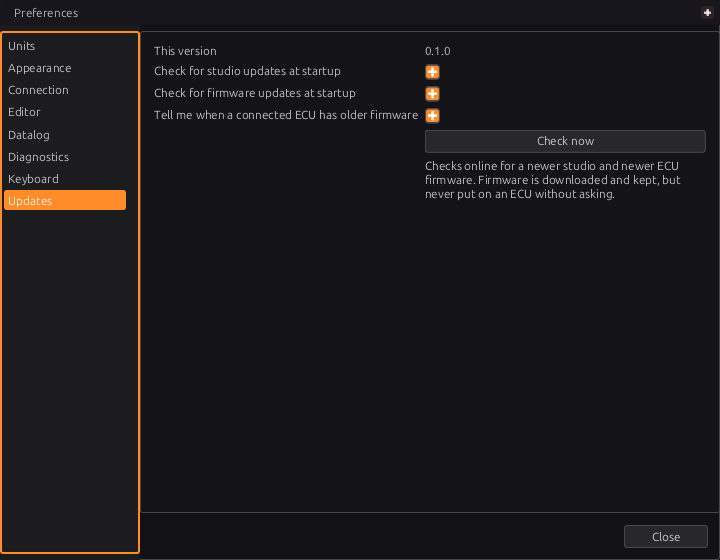
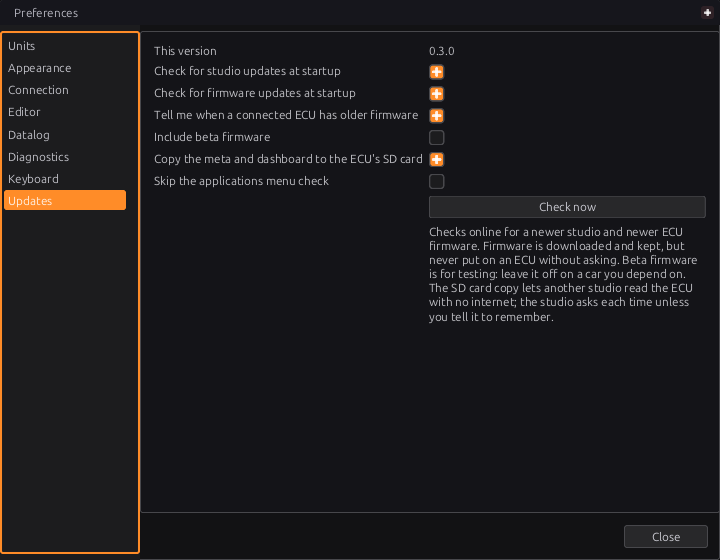
manual: today's studio changes; "descriptor" is the meta; a studio label that clipped
Chapter 3: the update offer is Update / Not now with "Don't ask about X again"; firmware comes in
the same releases as the studio and is checked for every board the studio has firmware for;
Preferences > Updates lists the SD card copy. Figure 3.5 re-shot (it showed 0.1.0 and three boxes).

Chapter 46: the SD card step asks, with Remember my choice and the preference; kits ship for every
board. Chapter 47: the recovery steps match the studio (the SD question; skip to step 3, not 5).
Chapter 48 and the glossary: the file the studio reads a firmware from is the meta.

The re-shoot showed "Copy the meta and dashboard to the ECU's SD card after installing firmware"
clipped in Preferences > Updates, so the label is now "Copy the meta and dashboard to the ECU's SD
card"; the note under it says when.

Changed region(s): [[0.2139, 0.0911, 1.0, 0.5768]]

diff --git a/apps/studio-jf/src/ui/PreferencesDialog.h b/apps/studio-jf/src/ui/PreferencesDialog.h
@@ -779,7 +779,7 @@ private:
         // THE SD COPY after installing firmware (FirmwareUpgrade::copyToSd). Asked each time unless the
         // answer was remembered; this is that answer. Unset, the box shows the likely one, and changing it
         // counts as remembering.
-        f->add(std::make_unique<JLabel>(m_graph, "Copy the meta and dashboard to the ECU's SD card after installing firmware", 240.f));
+        f->add(std::make_unique<JLabel>(m_graph, "Copy the meta and dashboard to the ECU's SD card", 240.f));
         JCheckBox* fwSd = f->add(std::make_unique<JCheckBox>(m_graph, "", 30.f));
         fwSd->setChecked(JSettings::instance().get<bool>("updates.firmwareCopyToSd", true));
         fwSd->onStateChanged.connect([](bool on) { JSettings::instance().set("updates.firmwareCopyToSd", on); });

diff --git a/manual/docs/part1/03-installing-studio.md b/manual/docs/part1/03-installing-studio.md
@@ -66,7 +66,7 @@ Inside the data folder:
 | Folder or file | What it holds |
 |---|---|
 | `ecus/` | One folder for each ECU the studio has met, named by the ECU's unique ID. It holds that ECU's saved tunes (`tunes/`), restore points (`restore/`), its page layout (`dashboard.gui`) and the tune backups made before a firmware update (`backups/`). |
-| `meta/` | ECU descriptors: the files that tell the studio what settings and channels a given firmware has. |
+| `meta/` | ECU metas: the files that tell the studio what settings and channels a given firmware has. |
 | `dashboards/` | Page layouts, one for each firmware layout (`<board> <layout hash>.gui`), from the shipped kit, an ECU's SD card or a firmware release. |
 | `firmware/` | ECU firmware kits the studio has downloaded. |
 | `datalogs/` | Logs you record in the studio, unless you choose another folder in **Edit ▸ Preferences ▸ Datalog**. |
@@ -91,7 +91,9 @@ looks at full releases. Drafts and pre-releases are never offered.
 <!-- src: apps/studio-jf/main.cpp (releases/latest of jaytektas/jayecu) (startup check) (Check now); JFramework include/j/update/JRelease.h -->
 
 When a newer version exists, the studio asks you first: *"jayecu Studio X is available. You have Y.
-Download and install it now (N MB)?"* If you answer **Yes**, it:
+Download and install it now (N MB)?"*, with **Update** and **Not now**. Tick **Don't ask about X
+again** before **Not now** and that version is not offered at startup again; the next version is, and
+**Check now** still finds it, because then you asked. If you answer **Update**, it:
 
 1. downloads the release's checksum file (`SHA256SUMS`), then the file for your system;
 2. checks that the file's SHA-256 checksum matches the published one. If it does not match, nothing
@@ -99,7 +101,7 @@ Download and install it now (N MB)?"* If you answer **Yes**, it:
 3. puts the new version ready to install (it **stages** it) and closes the studio in the usual way.
    If you have unsaved work, you are asked about it as you would be at any close;
 4. installs the new version once the studio has closed, and starts it.
-<!-- src: JFramework include/j/app/JAppUpdater.h (offer) (download sums, then asset, verify, stage, requestClose); apps/studio-jf/main.cpp (installStaged after the main loop) -->
+<!-- src: JFramework include/j/app/JAppUpdater.h (offer: Update / Not now, updates.skipVersion) (download sums, then asset, verify, stage, requestClose); apps/studio-jf/main.cpp (installStaged after the main loop) -->
 
 <figure markdown>
   ![Diagram of the update sequence: check, compare with the newest release, ask, download the checksums and the file, verify, stage, close, install, start the new version; and the three ways it stops or waits](../img/diagrams/installing-studio-update.svg)
@@ -130,9 +132,9 @@ installed the next time you close the studio.
     checksums, so it cannot be installed safely"). Neither is downloaded.
     <!-- src: JFramework include/j/update/JRelease.h; JFramework include/j/app/JAppUpdater.h -->
 
-**ECU firmware** is checked in the same place but released on its own. When the studio checks at
+**ECU firmware** comes in the same releases, with its own version number. When the studio checks at
 startup (or you press **Check now**), it also looks for newer firmware for every board it has
-connected to before, and downloads any it finds into the data folder's `firmware/` folder. Each file
+connected to before or has firmware for, and downloads any it finds into the data folder's `firmware/` folder. Each file
 is checked against the release's checksums first. Downloaded firmware is **kept, never flashed**: the
 studio only offers it when you connect to an ECU that runs older firmware, and asks before it changes
 anything (chapter 46).
@@ -328,22 +330,27 @@ or refused). Nothing was changed."
       starts. It only speaks up if there is one, so a laptop with no network is not told so every
       time.
     - **Check for firmware updates at startup** (on by default): look for newer ECU firmware for
-      the boards you have used, and download it. It is never put on an ECU from here.
+      the boards you have used and the boards the studio has firmware for, and download it. It is
+      never put on an ECU from here.
     - **Tell me when a connected ECU has older firmware** (on by default): when you connect, offer
       the newer firmware the studio already has. This needs no network, so it still works when the
       two checks above are off.
     - **Include beta firmware** (off by default): the firmware check also looks at beta releases, and
       the newest firmware wins, beta or not. Betas are published between releases for testing; leave
       this off on a car you depend on.
-    <!-- src: apps/studio-jf/src/ui/PreferencesDialog.h; main.cpp; JFramework include/j/app/JAppUpdater.h -->
+    - **Copy the meta and dashboard to the ECU's SD card**: after a
+      firmware update or recovery, put the ECU's meta and pages on its SD card, so another
+      studio can read the ECU with no internet. It takes about a minute. The studio asks each time
+      until you tick **Remember my choice**; this box shows the answer it remembered, and changes it.
+    <!-- src: apps/studio-jf/src/ui/PreferencesDialog.h; main.cpp; JFramework include/j/app/JAppUpdater.h; apps/studio-jf/src/app/FirmwareUpgrade.cpp (copyToSd, updates.firmwareCopyToSd) -->
 4. Press **Check now** to check both the studio and the firmware immediately. The answer appears in
    the status bar at the bottom of the main window. It might say "jayecu Studio is up to date
    (0.1.0)", "ECU firmware is up to date", or an offer to download.
    <!-- src: apps/studio-jf/main.cpp; JFramework include/j/app/JAppUpdater.h; main.cpp -->
 
 <figure markdown>
-  ![Edit, Preferences, Updates: This version 0.1.0, three ticked boxes for startup and connect checks, and the Check now button](../img/studio/installing-studio-updates.png)
-  <figcaption>Figure 3.5 — Edit ▸ Preferences ▸ Updates, as shipped: all three checks on. The
+  ![Edit, Preferences, Updates: This version 0.3.0; ticked boxes for the startup and connect checks, beta firmware off, the SD card copy of the meta and dashboard, and the Check now button](../img/studio/installing-studio-updates.png)
+  <figcaption>Figure 3.5 — Edit ▸ Preferences ▸ Updates, as shipped: the three checks on, beta firmware off. The
   text under Check now is the promise that firmware is never flashed without asking.</figcaption>
 </figure>
 

diff --git a/manual/docs/part6/46-updating-firmware.md b/manual/docs/part6/46-updating-firmware.md
@@ -11,7 +11,7 @@
 :material-circle:{ .level-basic } Basic
 
 - The studio and the ECU firmware are updated **separately** (chapter 3 covers the studio).
-- Firmware comes as a **kit** for one board: the firmware image, its descriptor and its pages. Kits
+- Firmware comes as a **kit** for one board: the firmware image, its meta and its pages. Kits
   ship with the studio, and the studio can download newer ones.
 - The update runs over the ordinary **USB cable**. No programmer, no other program.
 - Your tune is **read, backed up, converted and put back** as part of the update.
@@ -23,10 +23,10 @@
 
 ### 1 · Where kits come from
 
-- **Shipped**: each studio release carries kits for the boards it supports.
+- **Shipped**: each studio release carries a kit for every board it supports.
 - **Downloaded**: with **Check for firmware updates at startup** on (Edit ▸ Preferences ▸ Updates), or
-  when you press **Check now**, the studio looks for newer firmware for every board it has met and
-  downloads it. Every file is checked against the release's published checksums before it is kept.
+  when you press **Check now**, the studio looks for newer firmware for every board it has met or has
+  a kit for, and downloads it. Every file is checked against the release's published checksums before it is kept.
   Nothing is put on an ECU by this: it only makes the kit available.
 - **Beta**: with **Include beta firmware** on (Preferences ▸ Updates), the check also looks at beta
   releases published between full ones, and downloads whichever is newest. A beta's version reads
@@ -60,7 +60,7 @@ connect asks again.
 ### 4 · The steps
 
 <figure markdown>
-  ![Eight steps: read the tune, show the changes, check it is safe, back up the tune, flash over the bootloader, reconnect and check, put the converted tune back and burn it, copy the descriptor and pages to the SD card, then connect normally](../img/diagrams/firmware-update-steps.svg)
+  ![Eight steps: read the tune, show the changes, check it is safe, back up the tune, flash over the bootloader, reconnect and check, put the converted tune back and burn it, copy the meta and pages to the SD card, then connect normally](../img/diagrams/firmware-update-steps.svg)
   <figcaption>Figure 46.1 — What happens after Update firmware.</figcaption>
 </figure>
 
@@ -80,9 +80,11 @@ connect asks again.
    convert or back up: the new firmware's default tune goes on instead, and the studio says so when it
    finishes.
    <!-- src: apps/studio-jf/src/app/FirmwareUpgrade.cpp (noTune_: defaults, no backup); FirmwareUpgrade.cpp (the finishing message) -->
-9. **SD card**: the new descriptor and pages are copied onto the ECU's card, so another studio that
-   has never seen this firmware can fetch them from the ECU (chapter 48). No card: skipped, and said
-   so.
+9. **SD card**: the studio asks whether to copy the new meta and pages onto the ECU's card, so
+   another studio that has never seen this firmware can fetch them from the ECU (chapter 48). It
+   takes about a minute. Tick **Remember my choice** and it stops asking; **Copy the meta and
+   dashboard to the ECU's SD card** (Preferences ▸ Updates) shows and
+   changes the answer. No card: skipped, and said so.
 10. The normal connect runs, with the studio and the ECU in step.
     <!-- src: apps/studio-jf/src/app/FirmwareUpgrade.h; apps/studio-jf/src/app/FirmwareUpgrade.cpp -->
 
@@ -121,7 +123,7 @@ connect asks again.
 | Flash failed part-way | USB unplugged or disturbed | The ECU waits in its bootloader: answer **Try again**, or press Connect later (chapter 47) |
 | Tune values missing after the update | They were in **Going out** | The backup: **File ▸ Open Tune…**, marked *(firmware backup)* (chapter 48) |
 | "It had no tune, so it now has the firmware's default tune" | The ECU had no usable tune before the update | Set the tune up, or open a saved one with **File ▸ Open Tune…** (chapter 47, section 2) |
-| Another studio shows no pages for this ECU | It has no copy of the new descriptor | It fetches it from the ECU's SD card (chapter 48) |
+| Another studio shows no pages for this ECU | It has no copy of the new meta | It fetches it from the ECU's SD card (chapter 48) |
 
 ## Related
 

diff --git a/manual/docs/part6/48-files-backups.md b/manual/docs/part6/48-files-backups.md
@@ -10,7 +10,7 @@
 :material-circle:{ .level-basic } Basic
 
 <figure markdown>
-  ![In the ECU: working memory, flash after Burn, and the SD card with its copies and the descriptor. In the studio's data folder, per ECU: tunes, restore points, backups before firmware updates, and the page layout](../img/diagrams/files-tune-copies.svg)
+  ![In the ECU: working memory, flash after Burn, and the SD card with its copies and the meta. In the studio's data folder, per ECU: tunes, restore points, backups before firmware updates, and the page layout](../img/diagrams/files-tune-copies.svg)
   <figcaption>Figure 48.1 — Where copies of a tune live.</figcaption>
 </figure>
 
@@ -21,7 +21,7 @@
 | Restore points | `ecus/<ECU id>/restore/` | the studio, at every connect |
 | Backups before a firmware update | `ecus/<ECU id>/backups/` | the firmware update (chapter 46) |
 | Page layout for this ECU | `ecus/<ECU id>/dashboard.gui` | **File ▸ Save Layout** (chapter 49) |
-| Descriptors (what a firmware has) | `meta/` | the studio; also on the ECU's SD card |
+| Metas (what a firmware has) | `meta/` | the studio; also on the ECU's SD card |
 
 The data folder's location on your system is in chapter 3.
 <!-- src: apps/studio-jf/src/model/Ecu.h; manual/docs/part1/03-installing-studio.md (data folder table) -->
@@ -72,9 +72,9 @@ flashed or wiped), it says so.
 ### 4 · The ECU's SD card
 
 The card holds its own copy of the tune and the learned values (chapter 36), and also the
-**descriptor** and **page layout** for the firmware it runs. A studio that has never seen that
+**meta** and **page layout** for the firmware it runs. A studio that has never seen that
 firmware fetches them from the card when it connects, so it can show the ECU's pages without being
-given any files. The firmware update puts them there (chapter 46).
+given any files. A firmware update or recovery puts them there when you let it (chapter 46, step 9).
 <!-- src: apps/studio-jf/main.cpp (meta fetched from the ECU's SD) (dashboard fetched from the SD) -->
 
 ## Procedure
@@ -123,7 +123,7 @@ it. Everything is found by that one path.
 | A restore point will not open | It was made on a different firmware layout | Use a named tune; they convert |
 | The ECU does not have my changes after power-off | Not burned | Burn |
 | No ECU listed in Open ECU | This studio has never connected to it | Connect it once |
-| An ECU with new firmware shows no pages | No descriptor in this studio and none on the card | Update the studio, or run the firmware update from a studio that has it |
+| An ECU with new firmware shows no pages | No meta in this studio and none on the card | Update the studio, or run the firmware update from a studio that has it |
 | Tunes missing after reinstalling | The data folder was not copied | Restore it from the backup |
 
 ## Related

diff --git a/manual/docs/part6/47-recovery.md b/manual/docs/part6/47-recovery.md
@@ -45,7 +45,7 @@ The ECU also ends up waiting in its bootloader on its own if a firmware update i
 <figure markdown>
   ![Case open and USB connected; hold SW5 BOOT; press and release SW4 RESET while holding BOOT; let go of BOOT; press Connect and the studio offers to install firmware](../img/diagrams/recovery-boot-reset.svg)
   <figcaption>Figure 47.1 — Starting the bootloader by hand. After an interrupted update the ECU is
-  already there: skip to step 5.</figcaption>
+  already there: skip to step 3.</figcaption>
 </figure>
 
 1. Open the case and connect USB. USB power is enough; the ignition can be off.
@@ -62,8 +62,9 @@ The ECU also ends up waiting in its bootloader on its own if a firmware update i
 5. From here it is a firmware update (chapter 46): the studio reads the tune the ECU started with. A
    tune that suits this firmware stays. A new board has none, so the firmware's default tune goes on,
    is read back and checked, burned, and the ECU restarts on it.
-6. It copies the meta and dashboard to the ECU's SD card, so another studio can read this ECU from its
-   own card. With no card it skips that step.
+6. It asks whether to copy the meta and pages to the ECU's SD card, as an update does, so
+   another studio can read this ECU from its own card (chapter 46, step 9); once you have ticked
+   **Remember my choice** it does what you chose without asking. With no card it skips that step.
 7. The studio connects, and the status line says what was installed. Only when it put the default
    tune on does it stop first, with **ECU firmware installed**: a default tune is only a starting
    point, so set it up for your engine before starting it. Press **OK** and it connects.
@@ -119,7 +120,7 @@ The engine ran before a change and not after:
 | The status line says what the studio found | It names an ECU it does not recognise, or a bootloader |
 
 An ECU running firmware this studio has never seen still connects if its SD card holds the
-descriptor: the studio fetches it from the card (chapter 48).
+meta: the studio fetches it from the card (chapter 48).
 
 ## Examples
 

diff --git a/manual/docs/part3/36-system.md b/manual/docs/part3/36-system.md
@@ -77,7 +77,7 @@ The microSD card is optional, but several things need it:
 | `learn0.jlt` … `learn2.jlt` | learned values, so they survive a restart (chapter 23) |
 | `dtc.bin` | stored trouble codes, so they survive a restart (chapter 44) |
 | `LOG0001.MLG` … | on-board logs (chapter 42) |
-| the studio's descriptor and layout | so a studio that has never seen this ECU can show its pages (chapter 48) |
+| the studio's meta and layout | so a studio that has never seen this ECU can show its pages (chapter 48) |
 
 <!-- src: firmware (0:/ecucfg.bin, 0:/learn0..2.jlt, 0:/dtc.bin, 0:/LOG%04d.MLG); firmware/Comms/SdProtocol.cpp -->
 
